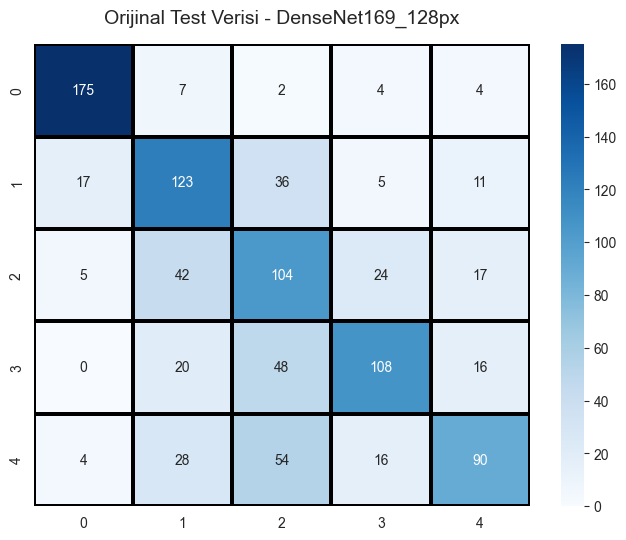
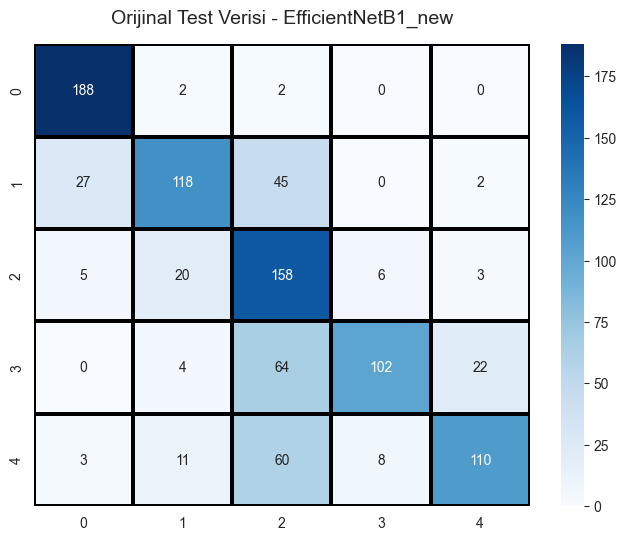
EfficientNetB1 modeli ile f1 skoru yükseltildi.Yükleme sayfası güncellendi

diff --git a/src/ui/view/get_started_screen.py b/src/ui/view/get_started_screen.py
@@ -30,7 +30,7 @@ class GetStartedScreen(QWidget): # yükleniyor penceresi
 
         self.color = "#2F2F2F" # koyu gri
 
-        self.estimatedCompletionTime = 7500 # yaklaşık tamamlanma süresi
+        self.estimatedCompletionTime = 3000 # yaklaşık tamamlanma süresi
 
         self.value = 0
 

diff --git a/src/ai/load_model.py b/src/ai/load_model.py
@@ -14,7 +14,7 @@ class LoadModel:
 
     def get_model(self):
         from keras.saving.save import load_model
-        model_name = "DenseNet169_128px"
+        model_name = "EfficientNetB1_new"
         model = load_model(f"models/{model_name}.h5")
         return model
 

diff --git a/icons/resize.py b/icons/resize.py
@@ -1,6 +1,6 @@
 from PIL import Image
 
-file_name = "main_background.jpeg"
+file_name = "ai_background.png"
 
 image = Image.open(file_name)
 

diff --git a/src/module/config.py b/src/module/config.py
@@ -1,1 +1,1 @@
-IMG_SIZE = 96
+IMG_SIZE = 128
